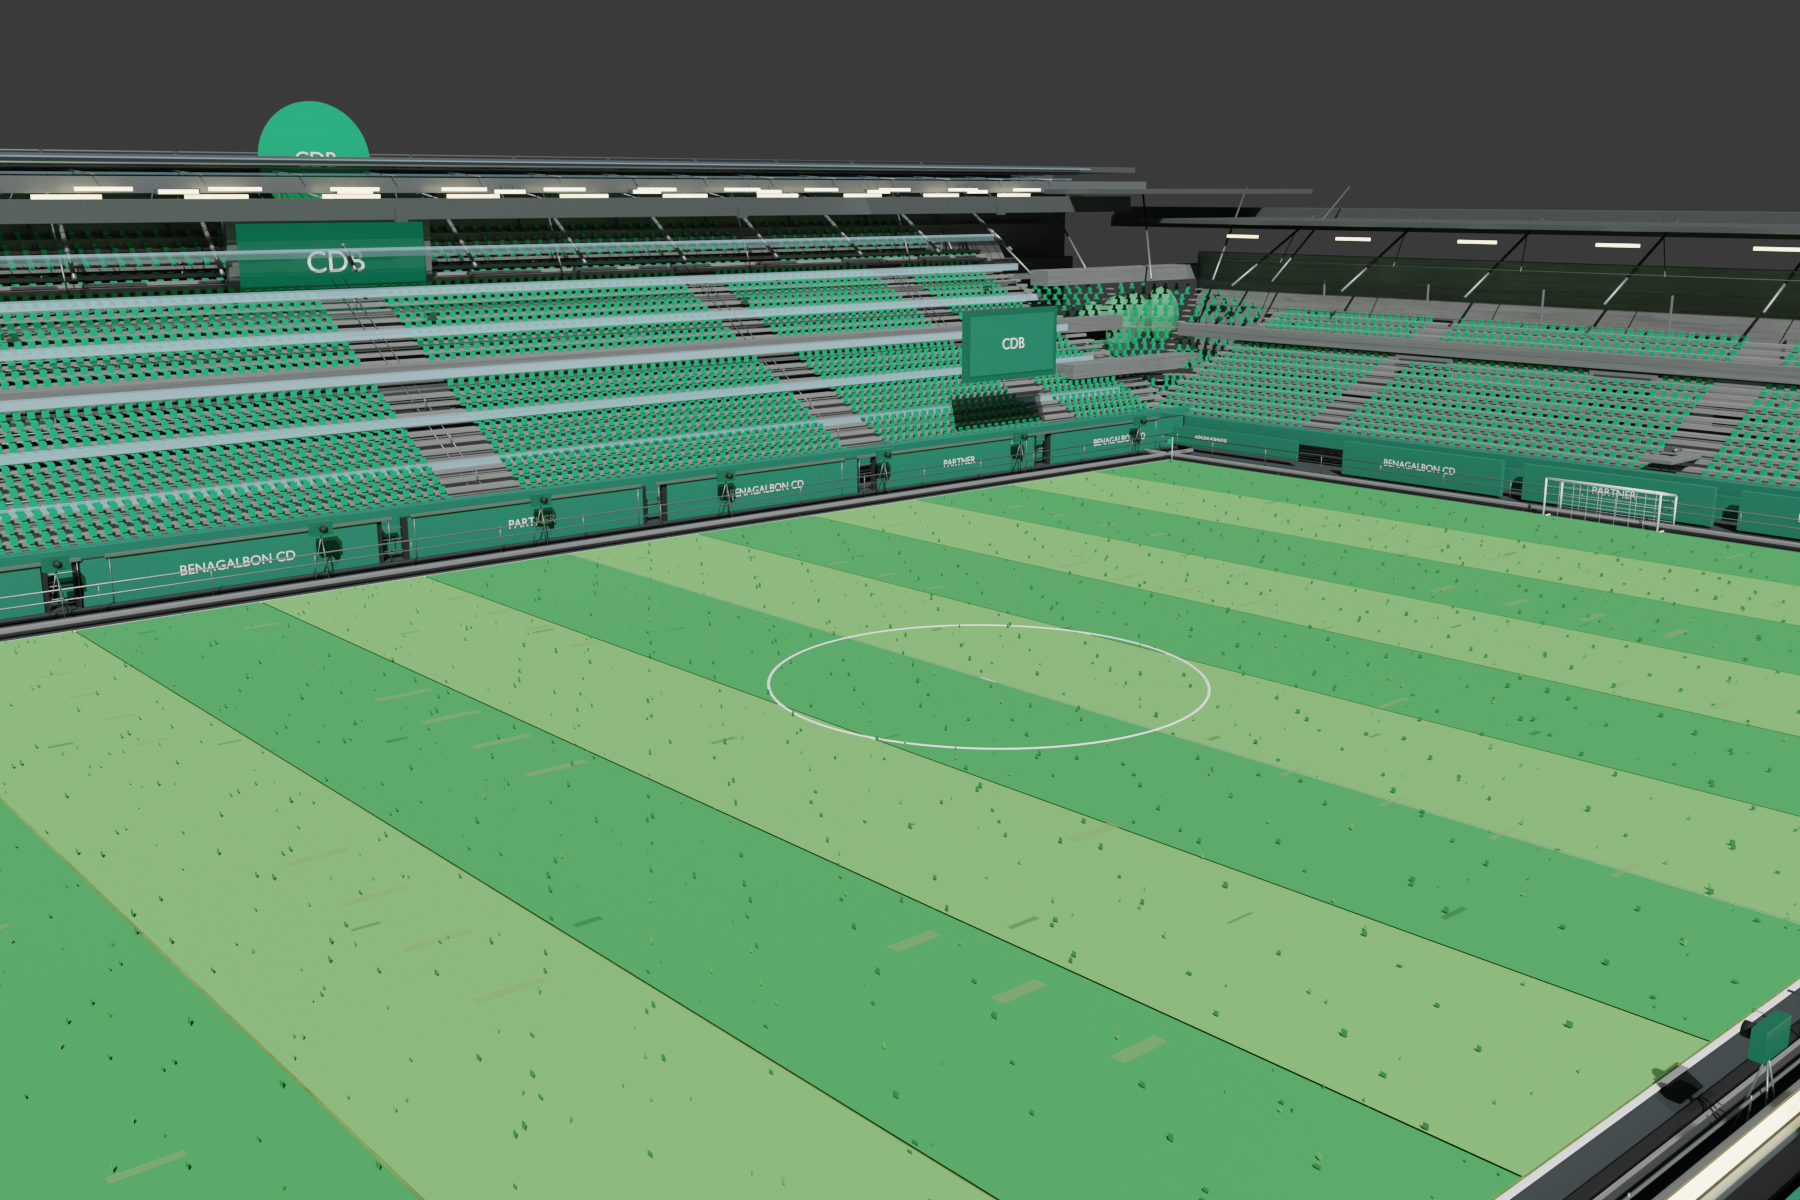
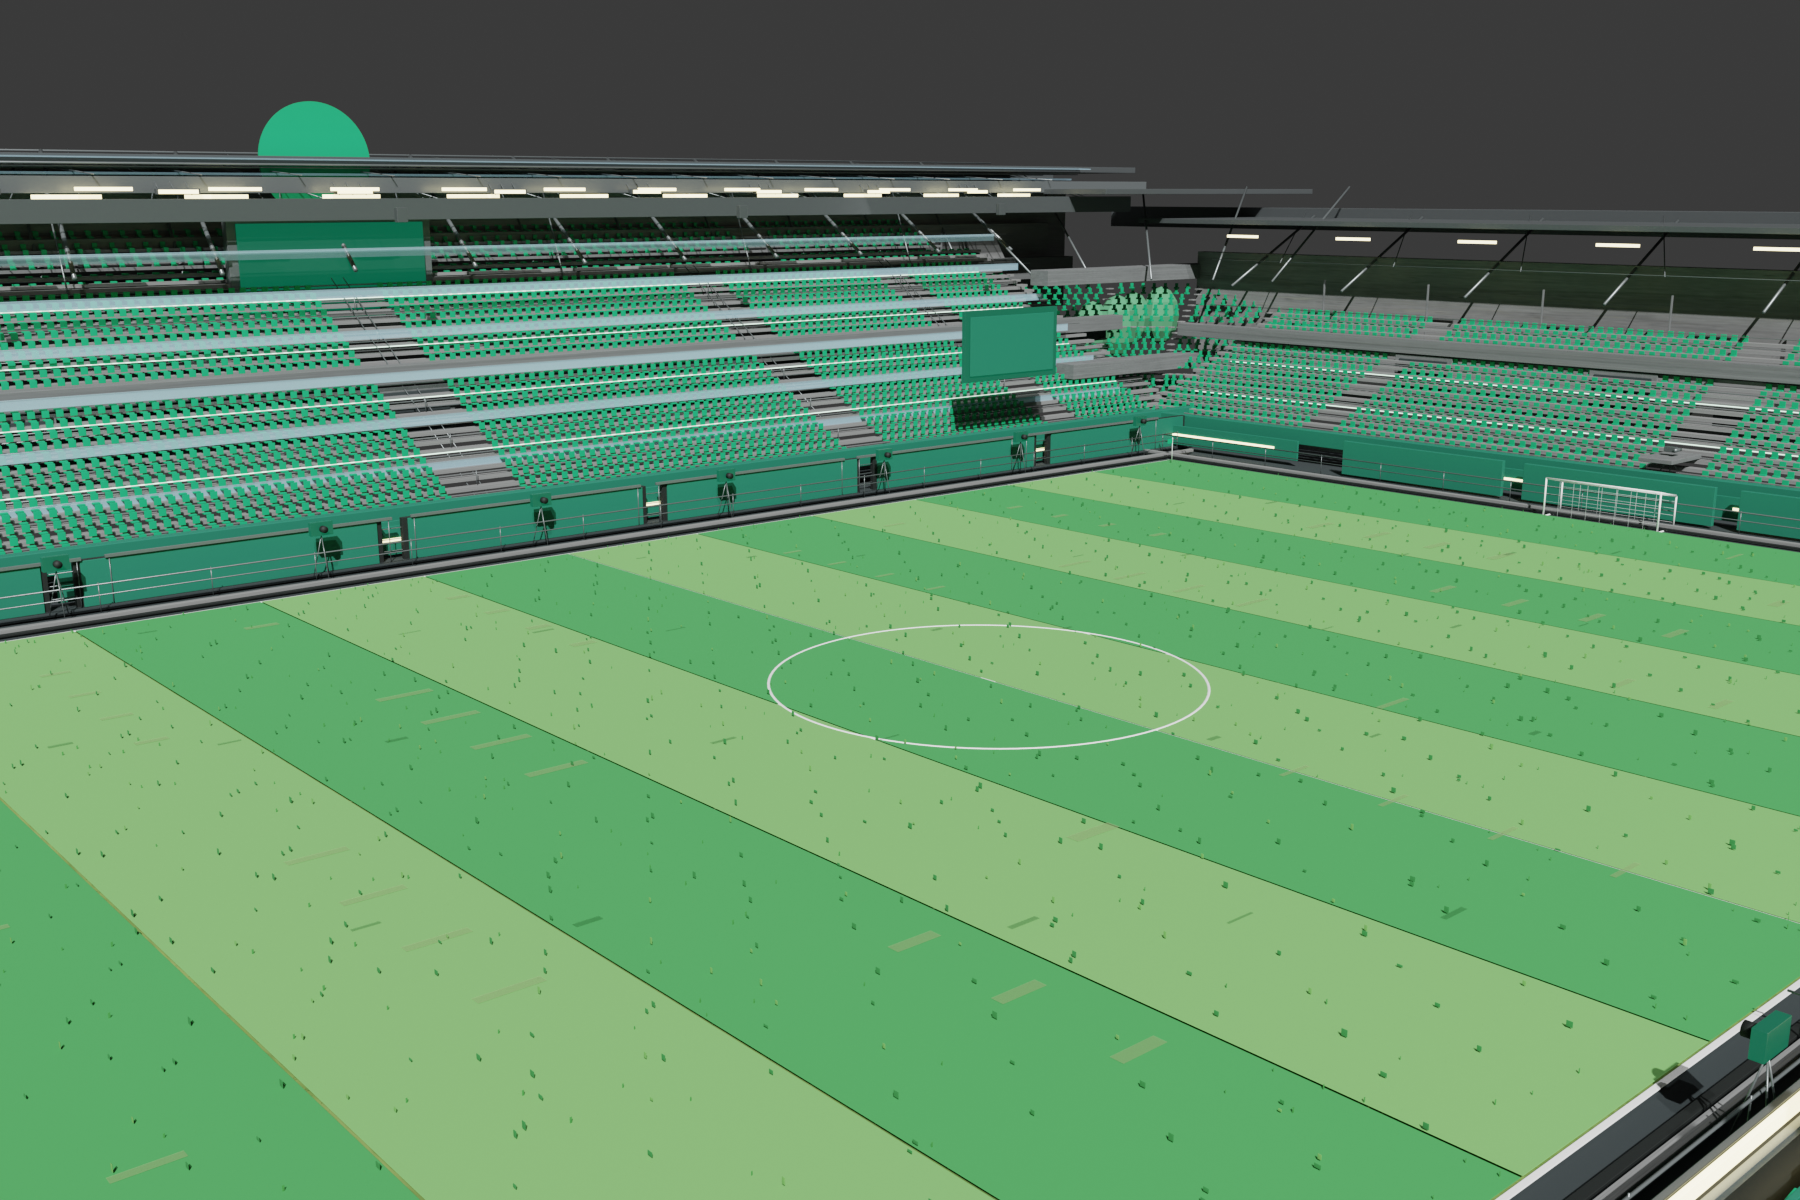
Remove mirrored 3D stadium text

diff --git a/football/templates/football/stadium_hyperrealistic.html b/football/templates/football/stadium_hyperrealistic.html
@@ -126,7 +126,7 @@
   <body>
     <main
       id="stadium-root"
-      data-model-src="{% static 'football/models/stadium/benagalbon-production-stadium.glb' %}?v=production-stadium-20"
+      data-model-src="{% static 'football/models/stadium/benagalbon-production-stadium.glb' %}?v=production-stadium-21"
       data-crest-src="{% static 'football/images/cdb-benagalbon-crest.png' %}"
       data-twoj-src="{% static 'football/images/2j-mark.svg' %}"
     ></main>
@@ -142,6 +142,6 @@
         <button type="button" data-camera="touchline" title="Camara banda">LINE</button>
       </div>
     </div>
-    <script type="module" src="{% static 'football/js/stadium_hyperrealistic.js' %}?v=blender-stadium-20"></script>
+    <script type="module" src="{% static 'football/js/stadium_hyperrealistic.js' %}?v=blender-stadium-21"></script>
   </body>
 </html>

diff --git a/football/static/football/js/stadium_hyperrealistic.js b/football/static/football/js/stadium_hyperrealistic.js
@@ -3,7 +3,7 @@ import { GLTFLoader } from '/static/vendor/three/examples/jsm/loaders/GLTFLoader
 
 const root = document.getElementById('stadium-root');
 const loading = document.getElementById('stadium-loading');
-const modelSrc = root.dataset.modelSrc || '/static/football/models/stadium/benagalbon-production-stadium.glb?v=production-stadium-20';
+const modelSrc = root.dataset.modelSrc || '/static/football/models/stadium/benagalbon-production-stadium.glb?v=production-stadium-21';
 
 let renderer;
 try {

diff --git a/football/templates/football/task_builder.html b/football/templates/football/task_builder.html
@@ -5681,7 +5681,7 @@
 				        data-stadium-team-primary="{{ tactics_team_primary|default:''|escape }}"
 				        data-stadium-team-secondary="{{ tactics_team_secondary|default:''|escape }}"
 				        data-stadium-team-crest-url="{{ tactics_team_crest_url|default:''|escape }}"
-				        data-stadium-model-src="{% static 'football/models/stadium/benagalbon-production-stadium.glb' %}?v=production-stadium-20"
+				        data-stadium-model-src="{% static 'football/models/stadium/benagalbon-production-stadium.glb' %}?v=production-stadium-21"
 				        data-stadium-main-stand-src="{% static 'football/images/stadium/benagalbon-main-stand-render-crop.png' %}{% if static_build_id %}?v={{ static_build_id|urlencode }}{% endif %}"
 				        data-stadium-sponsor-modernia-src="{% static 'football/images/stadium/sponsors/modernia-asesores.svg' %}{% if static_build_id %}?v={{ static_build_id|urlencode }}{% endif %}"
 				        data-stadium-sponsor-inversure-src="{% static 'football/images/stadium/sponsors/inversure.svg' %}{% if static_build_id %}?v={{ static_build_id|urlencode }}{% endif %}"

diff --git a/scripts/create_production_stadium_blender.py b/scripts/create_production_stadium_blender.py
@@ -222,6 +222,54 @@ def remove_non_realistic_overlays():
             bpy.data.objects.remove(obj, do_unlink=True)
 
 
+def remove_all_3d_text_labels():
+    text_name_fragments = (
+        "text",
+        "texto",
+        "letters",
+        "scoreboard_cdb",
+        "scoreboard_name",
+        "crest_text",
+        "fascia_name",
+        "goal_fascia_name",
+        "side_scoreboard_cdb",
+    )
+    for obj in list(bpy.context.scene.objects):
+        name = obj.name.lower()
+        data_name = getattr(getattr(obj, "data", None), "name", "").lower()
+        if obj.type == "FONT" or any(fragment in name or fragment in data_name for fragment in text_name_fragments):
+            bpy.data.objects.remove(obj, do_unlink=True)
+
+
+def add_non_text_identity_details():
+    for sign, prefix in [(1, "north"), (-1, "south")]:
+        y = sign * (base.HALF_Y + 5.06)
+        base.cube(f"production_{prefix}_club_identity_main_panel", (0, y, 1.32), (32.0, 0.18, 1.9), "green_dark", 0.018)
+        for i, x in enumerate([-12, -8, -4, 0, 4, 8, 12]):
+            base.cube(f"production_{prefix}_club_identity_led_bar_{i}", (x, y - sign * 0.12, 1.37), (2.2, 0.04, 0.22), "light", 0.004)
+        for x in [-18, 18]:
+            crest = base.cube(f"production_{prefix}_identity_crest_block_{x}", (x, y - sign * 0.13, 1.36), (2.3, 0.08, 1.25), "green", 0.028)
+            crest.rotation_euler.z = math.radians(4 if x < 0 else -4)
+
+
+def add_extra_bowl_modeling_details():
+    for sign, prefix in [(1, "south"), (-1, "north")]:
+        base_y = sign * (base.HALF_Y + 8)
+        for row in [6, 12, 18, 24]:
+            y = base_y + sign * (row * 0.78 + 0.16)
+            z = 1.6 + row * 0.48
+            base.cube(f"production_{prefix}_row_access_led_{row}", (0, y, z), (base.PITCH_X + 18 - row * 0.3, 0.035, 0.055), "led_white", 0.002)
+        for x in [-42, -21, 21, 42]:
+            base.cube(f"production_{prefix}_vomitory_side_depth_{x}", (x, base_y + sign * 10.85, 5.62), (4.8, 0.36, 2.15), "asphalt", 0.014)
+            base.cube(f"production_{prefix}_vomitory_floor_lip_{x}", (x, base_y + sign * 9.95, 4.05), (5.3, 0.72, 0.20), "concrete", 0.012)
+    for sign, prefix in [(1, "east"), (-1, "west")]:
+        base_x = sign * (base.HALF_X + 8)
+        for row in [5, 10, 15]:
+            x = base_x + sign * (row * 0.78 + 0.16)
+            z = 1.55 + row * 0.45
+            base.cube(f"production_{prefix}_goal_row_access_led_{row}", (x, 0, z), (0.035, base.PITCH_Y + 18 - row * 0.4, 0.055), "led_white", 0.002)
+
+
 def add_stair_handrails():
     for sign, prefix in [(1, "south"), (-1, "north")]:
         base_y = sign * (base.HALF_Y + 8)
@@ -334,24 +382,8 @@ def add_matchday_micro_architecture():
         base.cube(f"production_{prefix}_outer_concourse_slab", (0, outer_y, 0.11), (base.PITCH_X + 80, 8.0, 0.22), "asphalt", 0.012)
         base.cube(f"production_{prefix}_ticketing_glass_wall", (-38, outer_y - sign * 1.8, 3.2), (18.0, 0.28, 5.6), "glass", 0.018)
         base.cube(f"production_{prefix}_club_shop_glass_wall", (36, outer_y - sign * 1.8, 3.0), (20.0, 0.28, 5.2), "glass", 0.018)
-        base.add_text(
-            f"production_{prefix}_ticketing_sign",
-            "TAQUILLAS",
-            (-38, outer_y - sign * 2.02, 6.45),
-            0.72,
-            "white",
-            rot=(math.radians(90), 0, 0),
-            extrude=0.01,
-        )
-        base.add_text(
-            f"production_{prefix}_shop_sign",
-            "BENAGALBON CD",
-            (36, outer_y - sign * 2.02, 6.25),
-            0.66,
-            "white",
-            rot=(math.radians(90), 0, 0),
-            extrude=0.01,
-        )
+        base.cube(f"production_{prefix}_ticketing_sign_bar", (-38, outer_y - sign * 2.02, 6.45), (14.0, 0.08, 0.38), "light", 0.012)
+        base.cube(f"production_{prefix}_club_shop_sign_bar", (36, outer_y - sign * 2.02, 6.25), (16.0, 0.08, 0.38), "light", 0.012)
         for i, x in enumerate(range(-58, 59, 8)):
             base.cube(f"production_{prefix}_turnstile_plinth_{i}", (x, outer_y - sign * 5.2, 0.62), (2.2, 0.42, 1.0), "concrete_dark", 0.02)
             base.cylinder_between(
@@ -392,47 +424,22 @@ def add_matchday_micro_architecture():
         base.cube(f"production_{prefix}_service_road", (outer_x, 0, 0.08), (7.5, base.PITCH_Y + 76, 0.16), "asphalt", 0.006)
         for y in range(-56, 57, 14):
             base.cube(f"production_{prefix}_wayfinding_totem_{y}", (outer_x - sign * 2.7, y, 2.05), (0.62, 1.8, 3.8), "green_dark", 0.018)
-            base.add_text(
-                f"production_{prefix}_wayfinding_label_{y}",
-                "ACCESO",
-                (outer_x - sign * 3.04, y, 2.75),
-                0.34,
-                "white",
-                rot=(math.radians(90), 0, math.radians(90)),
-                extrude=0.008,
-            )
+            base.cube(f"production_{prefix}_wayfinding_light_strip_{y}", (outer_x - sign * 3.04, y, 2.75), (0.08, 1.15, 0.16), "light", 0.008)
 
 
 def add_sponsor_and_identity_layer():
-    sponsors = ["SEGUNDA JUGADA", "MODERNIA", "INVERSURE", "FINCAS VELAZQUEZ"]
     for sign, prefix in [(1, "north"), (-1, "south")]:
         y = sign * (base.HALF_Y + 4.95)
-        for i, label in enumerate(sponsors):
+        for i in range(4):
             x = -45 + i * 30
             base.cube(f"production_{prefix}_sponsor_panel_{i}", (x, y, 1.2), (21.0, 0.16, 1.6), "green_dark", 0.018)
-            base.add_text(
-                f"production_{prefix}_sponsor_text_{i}",
-                label,
-                (x, y - sign * 0.12, 1.25),
-                0.42,
-                "white",
-                rot=(math.radians(90), 0, 0),
-                extrude=0.008,
-            )
+            base.cube(f"production_{prefix}_sponsor_panel_led_{i}", (x, y - sign * 0.11, 1.25), (16.5, 0.04, 0.18), "light", 0.004)
     for sign, prefix in [(1, "east"), (-1, "west")]:
         x = sign * (base.HALF_X + 4.95)
-        for i, label in enumerate(reversed(sponsors)):
+        for i in range(4):
             y = -35 + i * 23
             base.cube(f"production_{prefix}_goal_sponsor_panel_{i}", (x, y, 1.18), (0.16, 16.2, 1.5), "green_dark", 0.018)
-            base.add_text(
-                f"production_{prefix}_goal_sponsor_text_{i}",
-                label,
-                (x - sign * 0.12, y, 1.22),
-                0.36,
-                "white",
-                rot=(math.radians(90), 0, math.radians(90)),
-                extrude=0.008,
-            )
+            base.cube(f"production_{prefix}_goal_sponsor_panel_led_{i}", (x - sign * 0.11, y, 1.22), (0.04, 12.0, 0.16), "light", 0.004)
 
 
 def add_realistic_pitch_wear_and_service_marks():
@@ -565,8 +572,11 @@ def build_scene():
     add_facade_paneling()
     add_matchday_micro_architecture()
     add_sponsor_and_identity_layer()
+    add_non_text_identity_details()
+    add_extra_bowl_modeling_details()
     add_realistic_pitch_wear_and_service_marks()
     add_better_environment()
+    remove_all_3d_text_labels()
     base.add_lighting_and_camera()
     sun = bpy.data.objects.get("production_extra_sun")
     if not sun:

diff --git a/scripts/create_hyperrealistic_stadium_blender.py b/scripts/create_hyperrealistic_stadium_blender.py
@@ -577,20 +577,17 @@ def add_corner_stands():
 
 
 def add_boards():
-    labels = ["2J FOOTBALL INTELLIGENCE", "BENAGALBON CD", "SPONSOR", "PARTNER"]
     idx = 0
     for x in range(-51, 52, 17):
         for sign in [-1, 1]:
             y = sign * (HALF_Y + 4.0)
             cube(f"board_panel_back_{idx}", (x, y + sign * 0.10, 1.26), (15.8, 0.34, 2.64), "rubber", 0.02)
             cube(f"board_panel_{idx}", (x, y, 1.35), (15.2, 0.32, 2.4), "green_dark", 0.02)
-            add_text(f"board_text_{idx}", labels[idx % len(labels)], (x, y - sign * 0.19, 1.38), 0.72, "white", rot=(math.radians(90), 0, math.radians(180) if sign < 0 else 0))
             idx += 1
     for y in range(-27, 28, 14):
         for sign in [-1, 1]:
             x = sign * (HALF_X + 4.0)
             cube(f"board_end_panel_{idx}", (x, y, 1.35), (0.32, 12.5, 2.4), "green_dark", 0.02)
-            add_text(f"board_end_text_{idx}", labels[idx % len(labels)], (x - sign * 0.19, y, 1.38), 0.68, "white", rot=(math.radians(90), 0, math.radians(-90) if sign > 0 else math.radians(90)))
             idx += 1
 
 